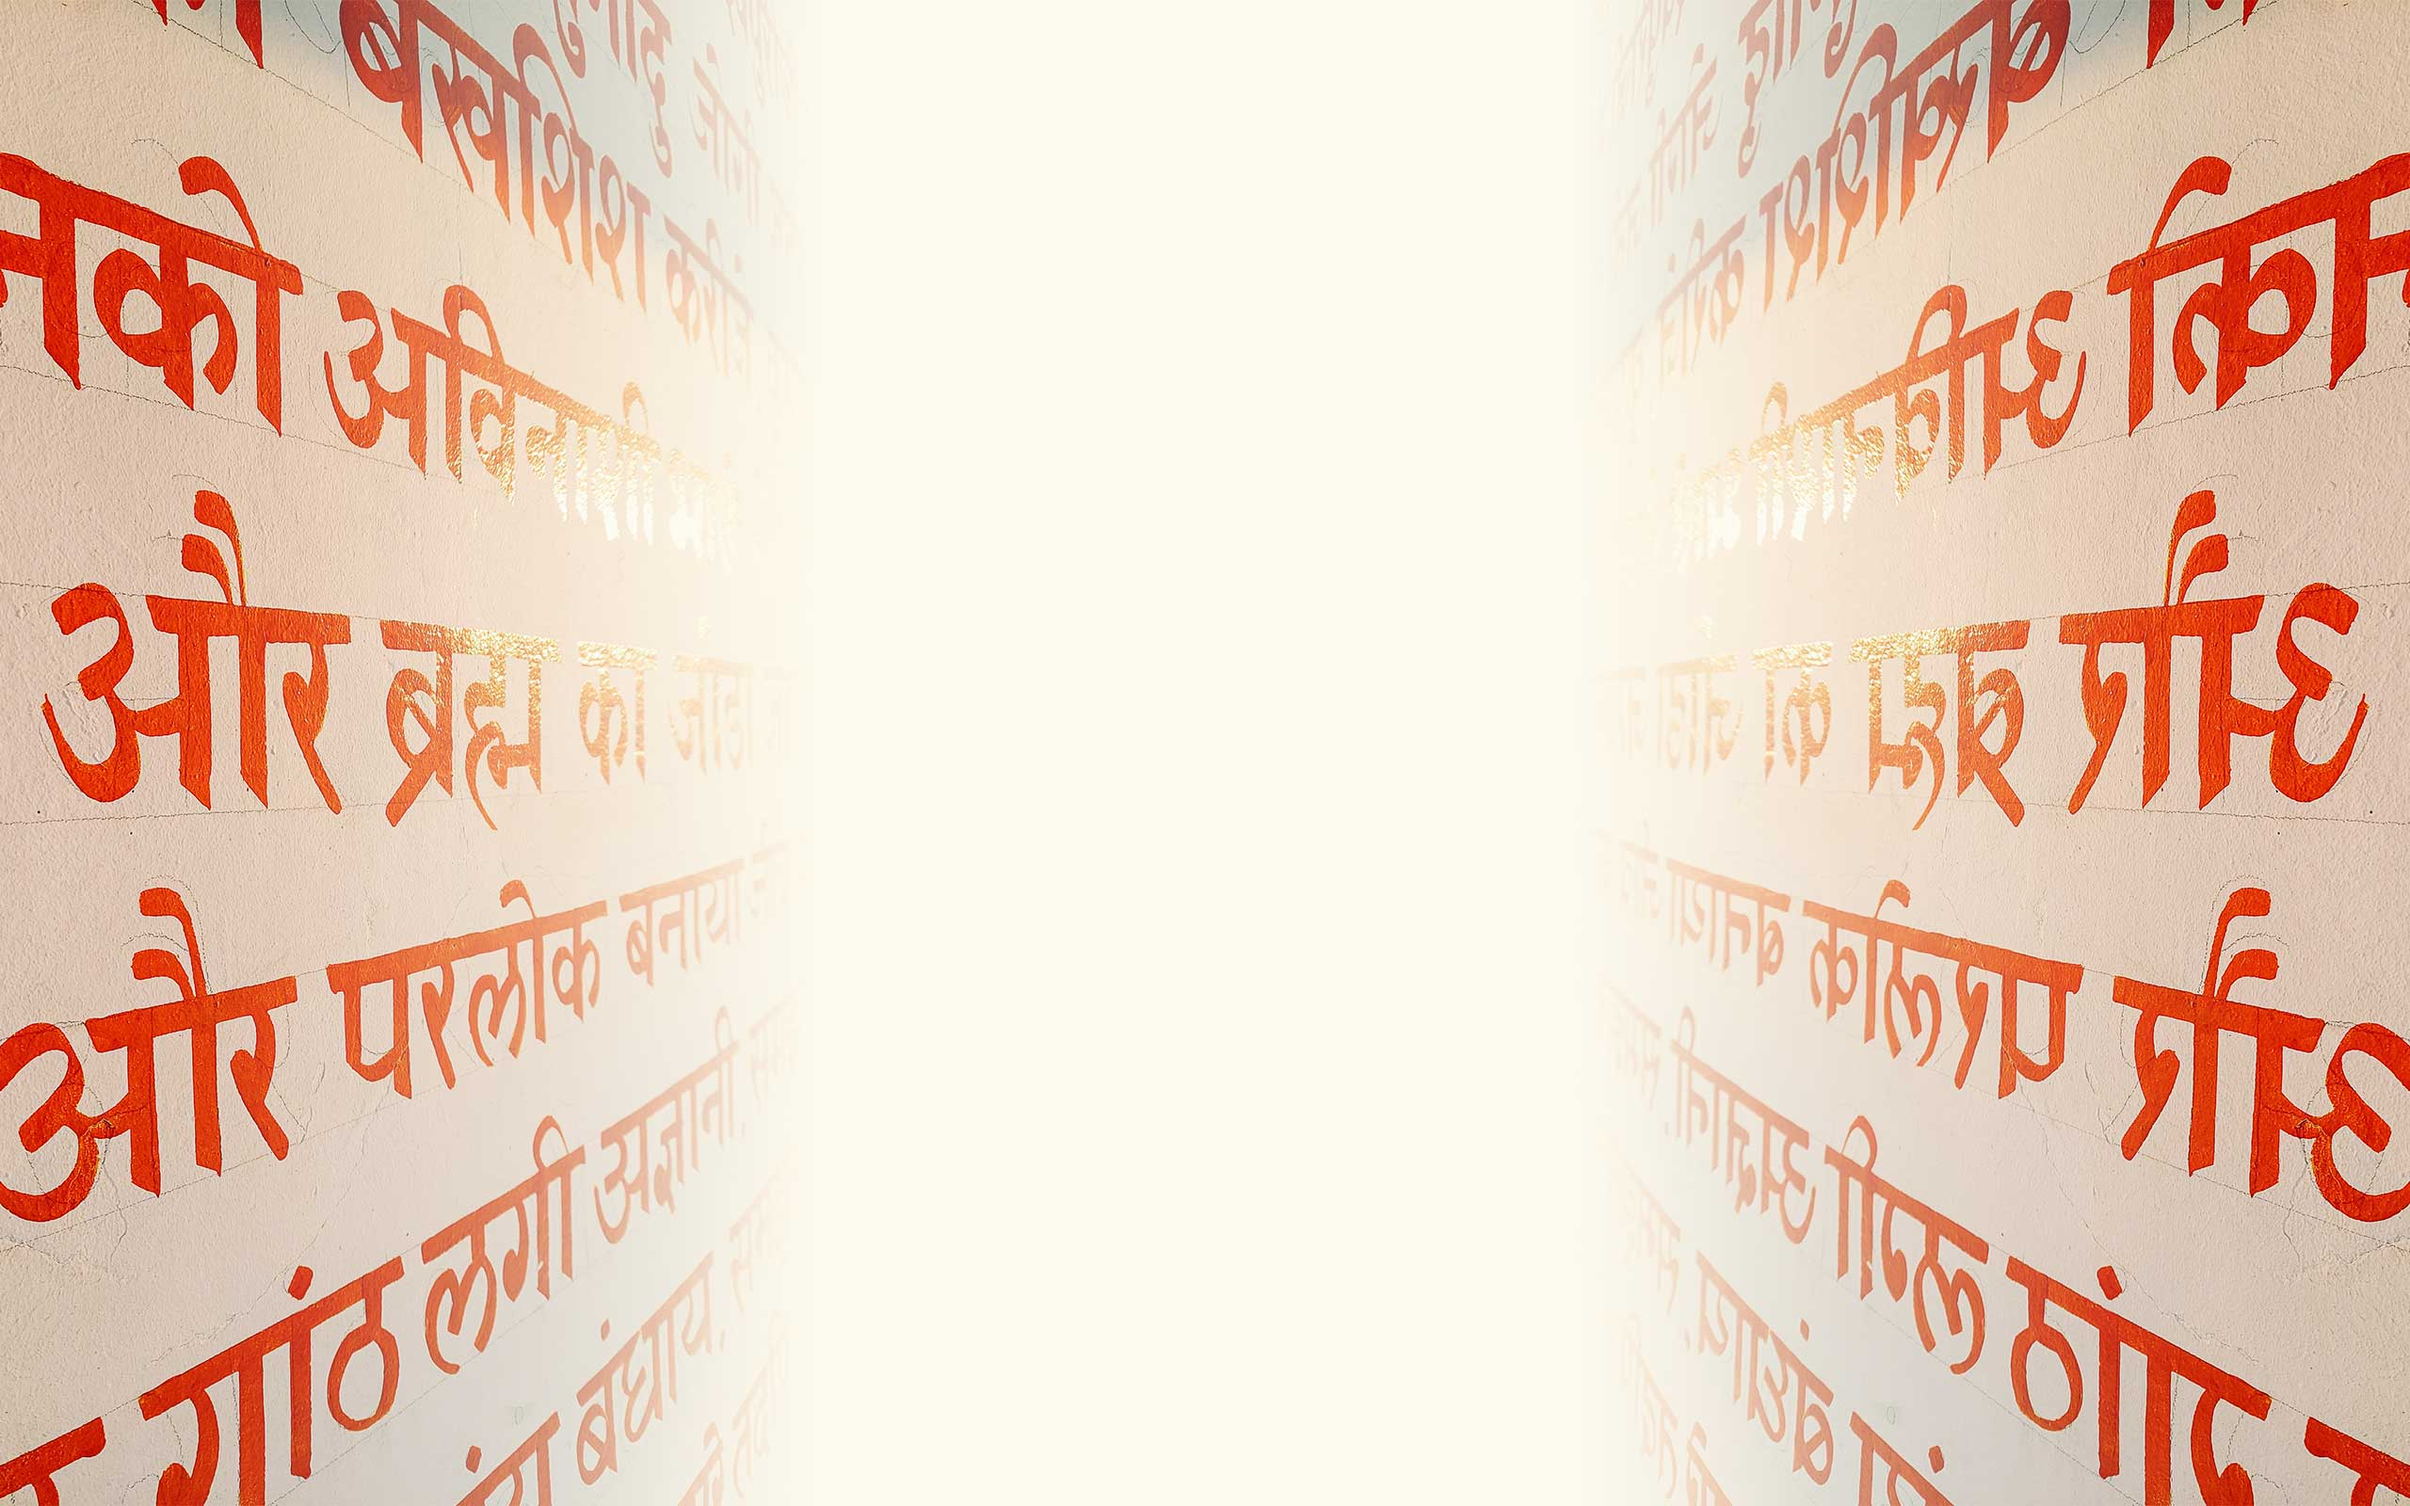
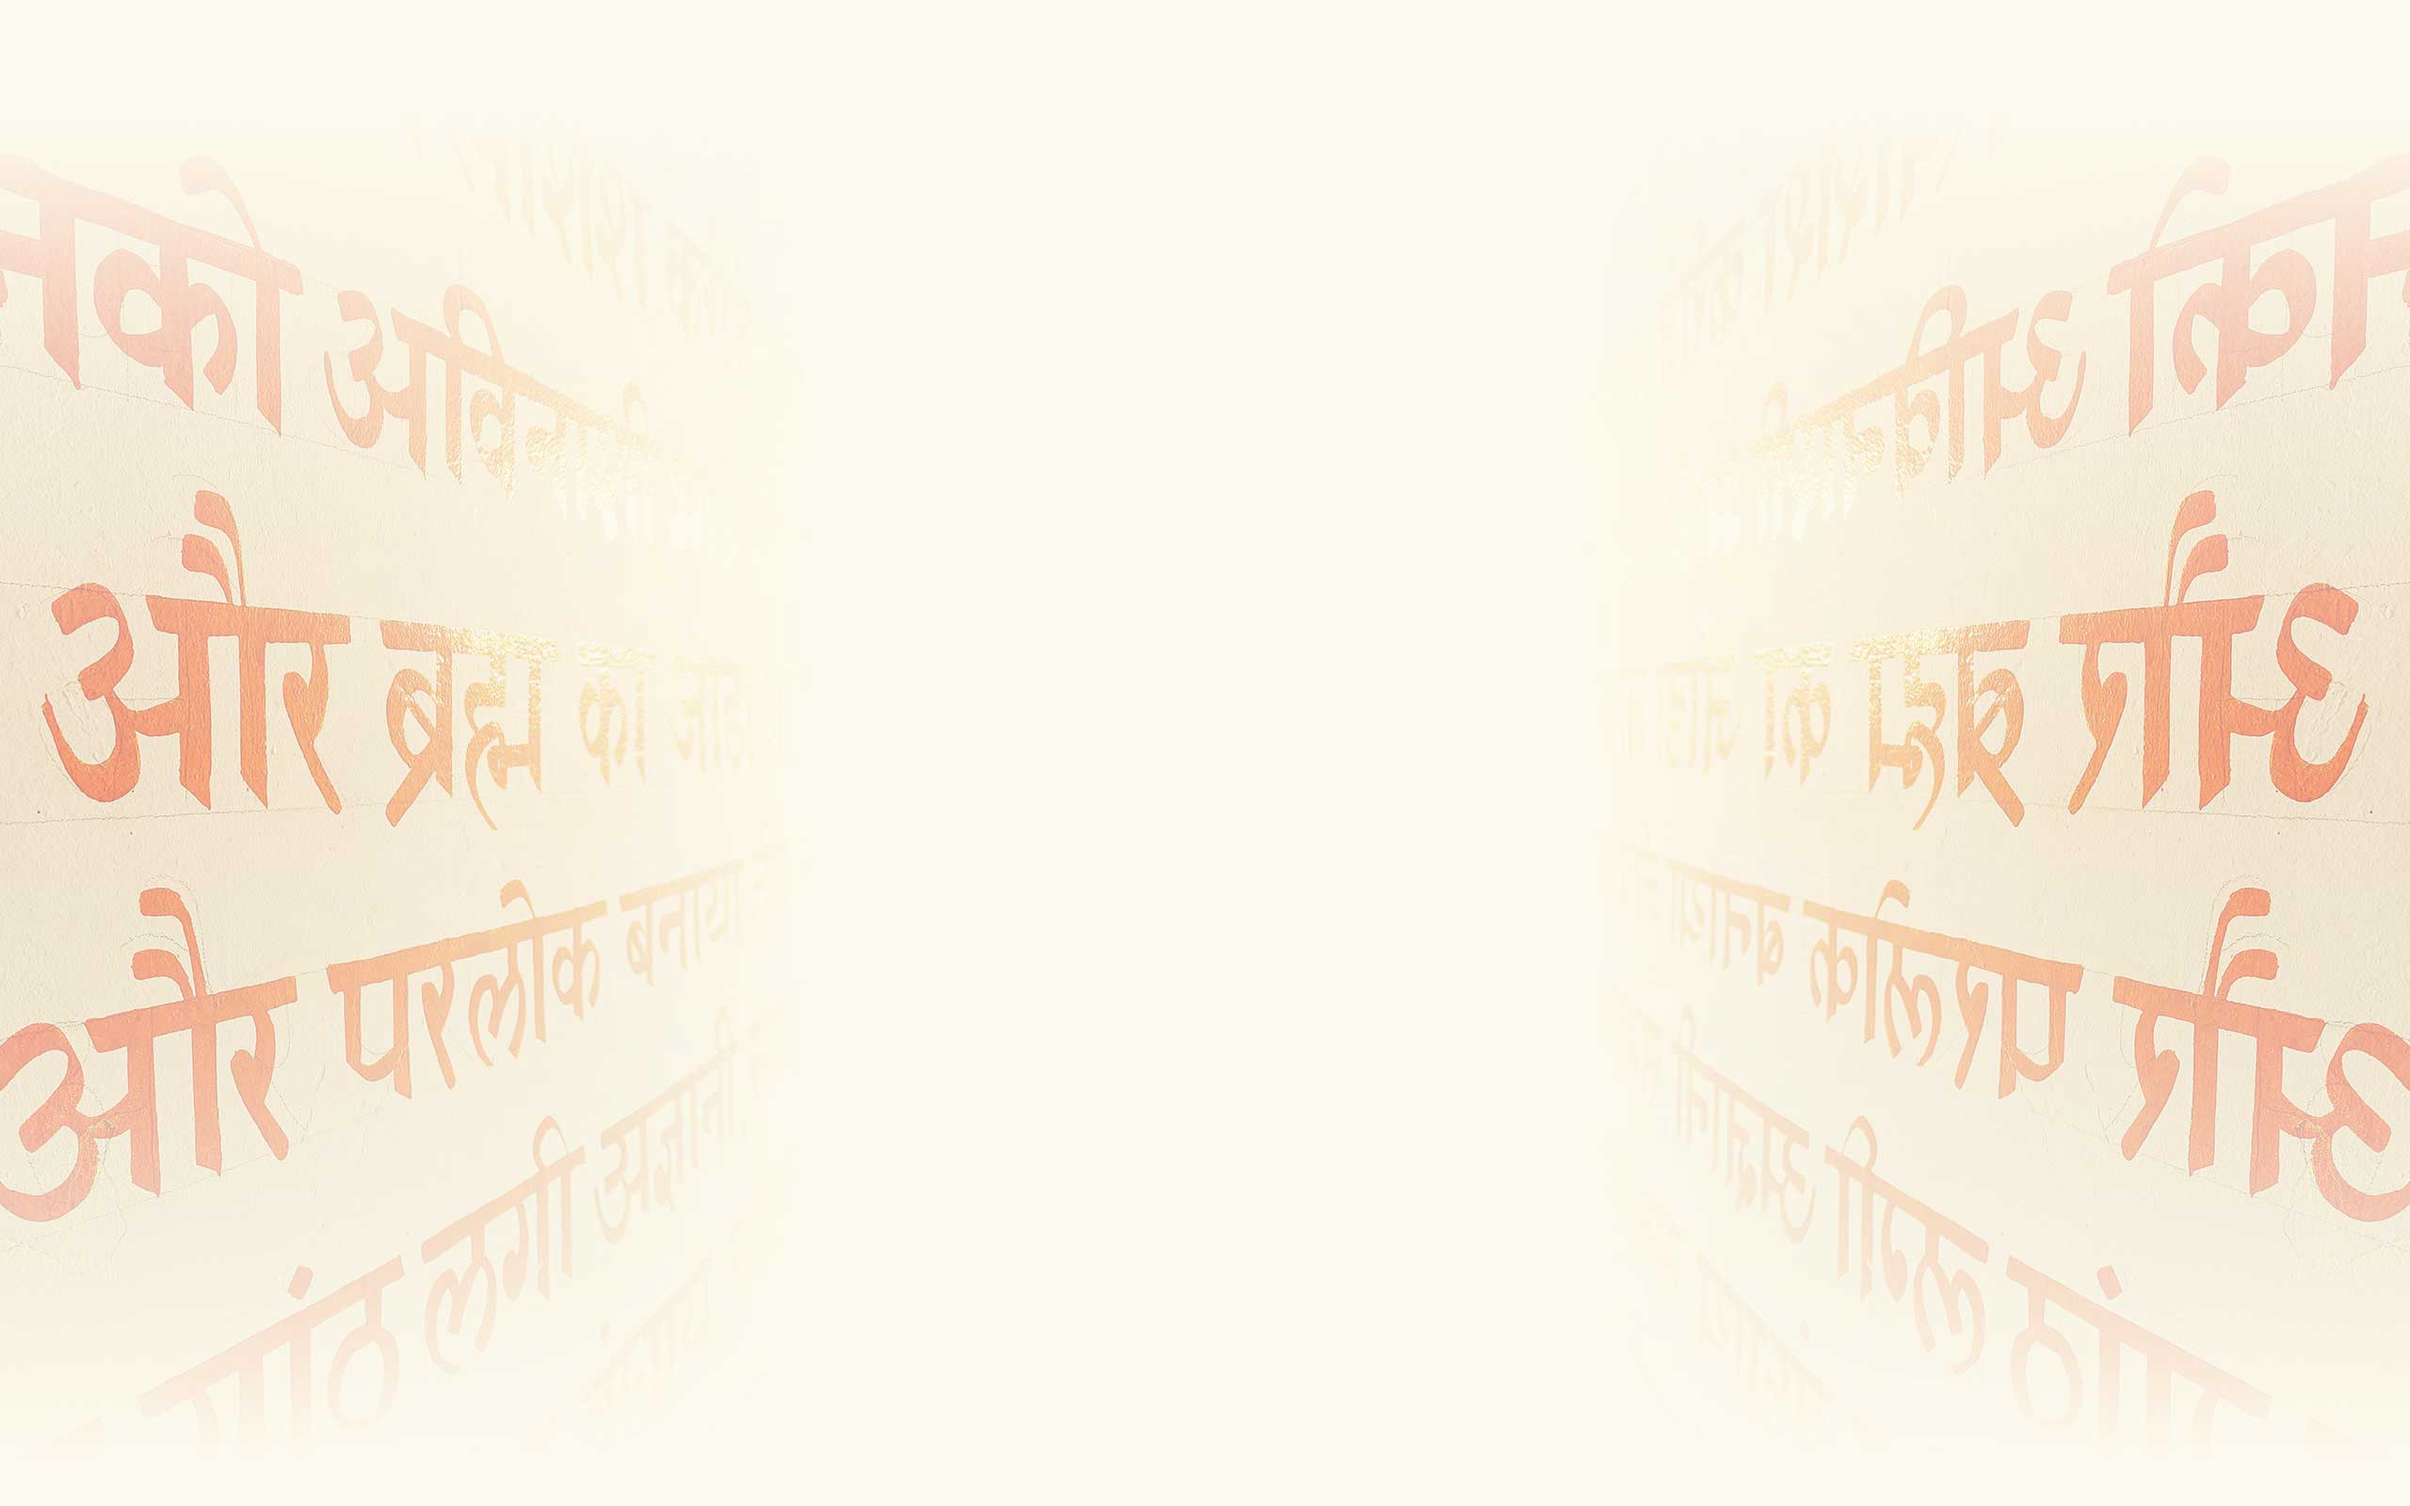
big screens design update

diff --git a/src/styles/App.css b/src/styles/App.css
@@ -35,6 +35,21 @@
   /* For mobile phones: */
   body {
     height: auto;
+    padding: 1em 0;
+  }
+}
+
+@media only screen and (min-width: 768px) {
+  /* For tablets and larger screens: */
+  body {
+    background-image: url("/backgrounds/appBack.jpg");
+    background-position: top center;
+    background-repeat: no-repeat;
+    background-size: 100%;
+    min-height: 100vh;
+    display: flex;
+    justify-content: center; /* vertikalno centriranje */
+    padding: 0;
   }
 }
 
@@ -93,7 +108,6 @@ body {
   -ms-flex-align: center;
   align-items: center;
   margin: 0;
-  padding: 1em 0;
   overflow: scroll;
   scrollbar-width: none;
   -ms-overflow-style: none;

diff --git a/src/components/displayCards/festivalCard.jsx b/src/components/displayCards/festivalCard.jsx
@@ -136,7 +136,7 @@ export default function FestivalCard({ location, tithiDay }) {
           {/* <p>{vedicTime}</p> */}
           <div>
             <div>
-              <p>Purnimanta Panchanga</p>
+              <h4>Purnimanta Panchanga</h4>
               <span>Tithi: {panchangData.TithiInfo.tithiName}</span>
               <br /> {/* lunar day */}
               <span>Nakshatra: {panchangData.Nakshatra}</span>
